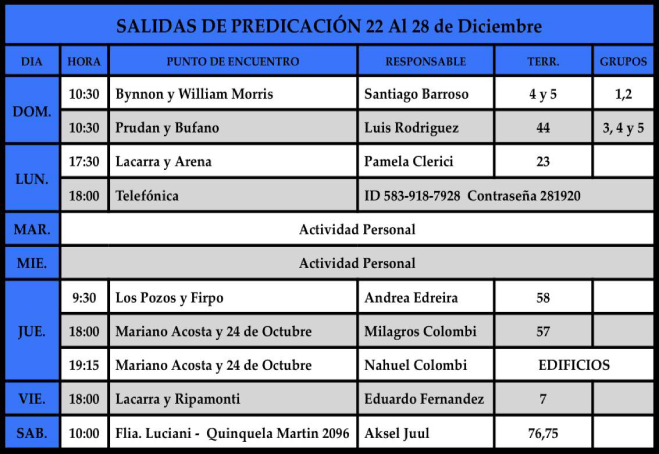
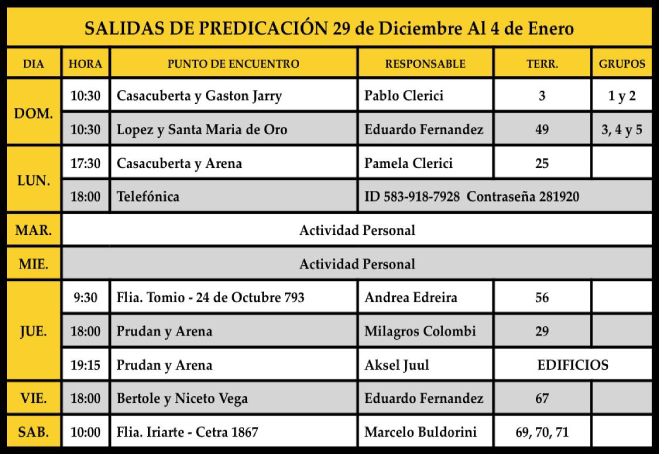
actualizo salida, limpieza y programa

diff --git a/pages/programaSemanal/programaSemanal.html b/pages/programaSemanal/programaSemanal.html
@@ -39,9 +39,8 @@
     <main>
         <section class="reuSemanal">
             <h2> Programa para la reunión entre semana</h2>
-            <img src="./asignacionesDiciembre1.png" alt="">
-            <img src="./asignacionesDiciembre2.png" alt="">
-            <img src="./asignacionesDiciembre3.png" alt="">
+            <img src="./asignacionesEnero1.png" alt="">
+            <img src="./asignacionesEnero2.png" alt="">
         </section>
     </main>
     <footer>
